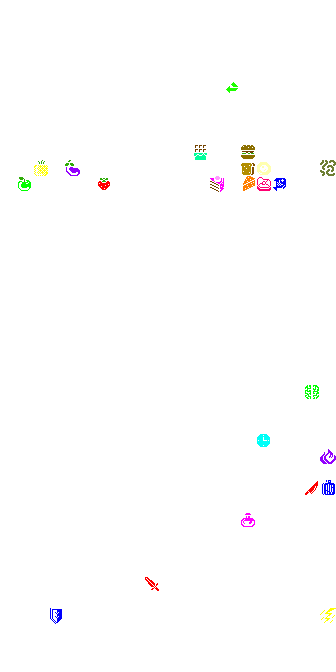
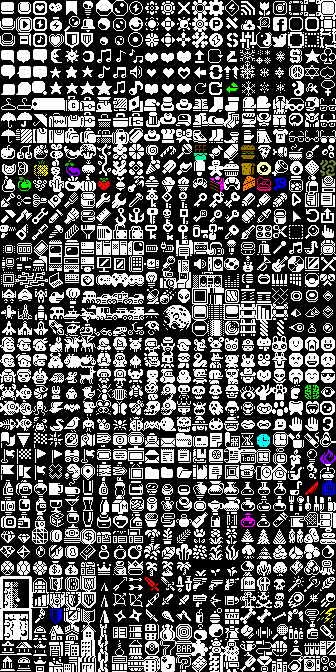
Added a background

diff --git a/src/Scenes/Game.js b/src/Scenes/Game.js
@@ -9,25 +9,33 @@ class Game extends Phaser.Scene {
         this.load.image("monsterTiles", "monochrome_32x32.png"); // Packed tilemap
         this.load.image("UITiles", "bone_breakers.png"); // Packed tilemap
         this.load.image("iconTiles", "1bitIcons1.png"); // Packed tilemap
+        this.load.image("Backdrop","Background_0.png");
         this.load.tilemapTiledJSON("GUI", "UI.json");
     }
 
     create() {
+        //add background image
+        this.backdrop = this.make.image({x: 512,y: 138,key: 'Backdrop',scale:{x:2,y:2}})
+
+        //create tile map
         this.map = this.add.tilemap("GUI");
+        
+        //add images to tile map
         this.monsterlayertile = this.map.addTilesetImage("Monsters", "monsterTiles");
         this.iconlayertile = this.map.addTilesetImage("Icons", "iconTiles");
         this.uilayertile = this.map.addTilesetImage("UI Panels", "UITiles");
 
-        // Create layers
-        this.monsterlayer = this.map.createLayer("Layer2", this.monsterlayertile, 0, 0).setScale(2);
-        this.iconlayer = this.map.createLayer("Layer1", this.iconlayertile, 0, 0).setScale(2);
+        //create layers
         this.uilayer = this.map.createLayer("Layer0", this.uilayertile, 0, 0).setScale(2);
+        this.iconlayer = this.map.createLayer("Layer1", this.iconlayertile, 0, 0).setScale(2);
+        this.monsterlayer = this.map.createLayer("Layer2", this.monsterlayertile, 0, 0).setScale(2);
         //DEBUG
         player.stuff = [525,505,507,530,494,537,497,518,541,540,539,519] //231
         //DEBUG
+
         for (let i = 0; i < 8; i++)
             for (let j = 0; j < 4; j++)
-                this.iconlayer.putTileAt(player.stuff[Math.floor(Math.random()*player.stuff.length)],i+12,j+10)
+                this.iconlayer.putTileAt(player.stuff[Math.floor(Math.random()*player.stuff.length)],i+12,j+10);
 
         this.selected = [];
         

diff --git a/index.html b/index.html
@@ -3,7 +3,7 @@
 <head>
     <meta charset="UTF-8">
     <meta name="viewport" content="width=device-width, initial-scale=1.0">
-    <title>Cubey</title>
+    <title>Necrobaker</title>
     <script src="./lib/phaser.js"></script>
     <script src="./src/Scenes/Game.js"></script>
     <script src="./src/main.js"></script>
